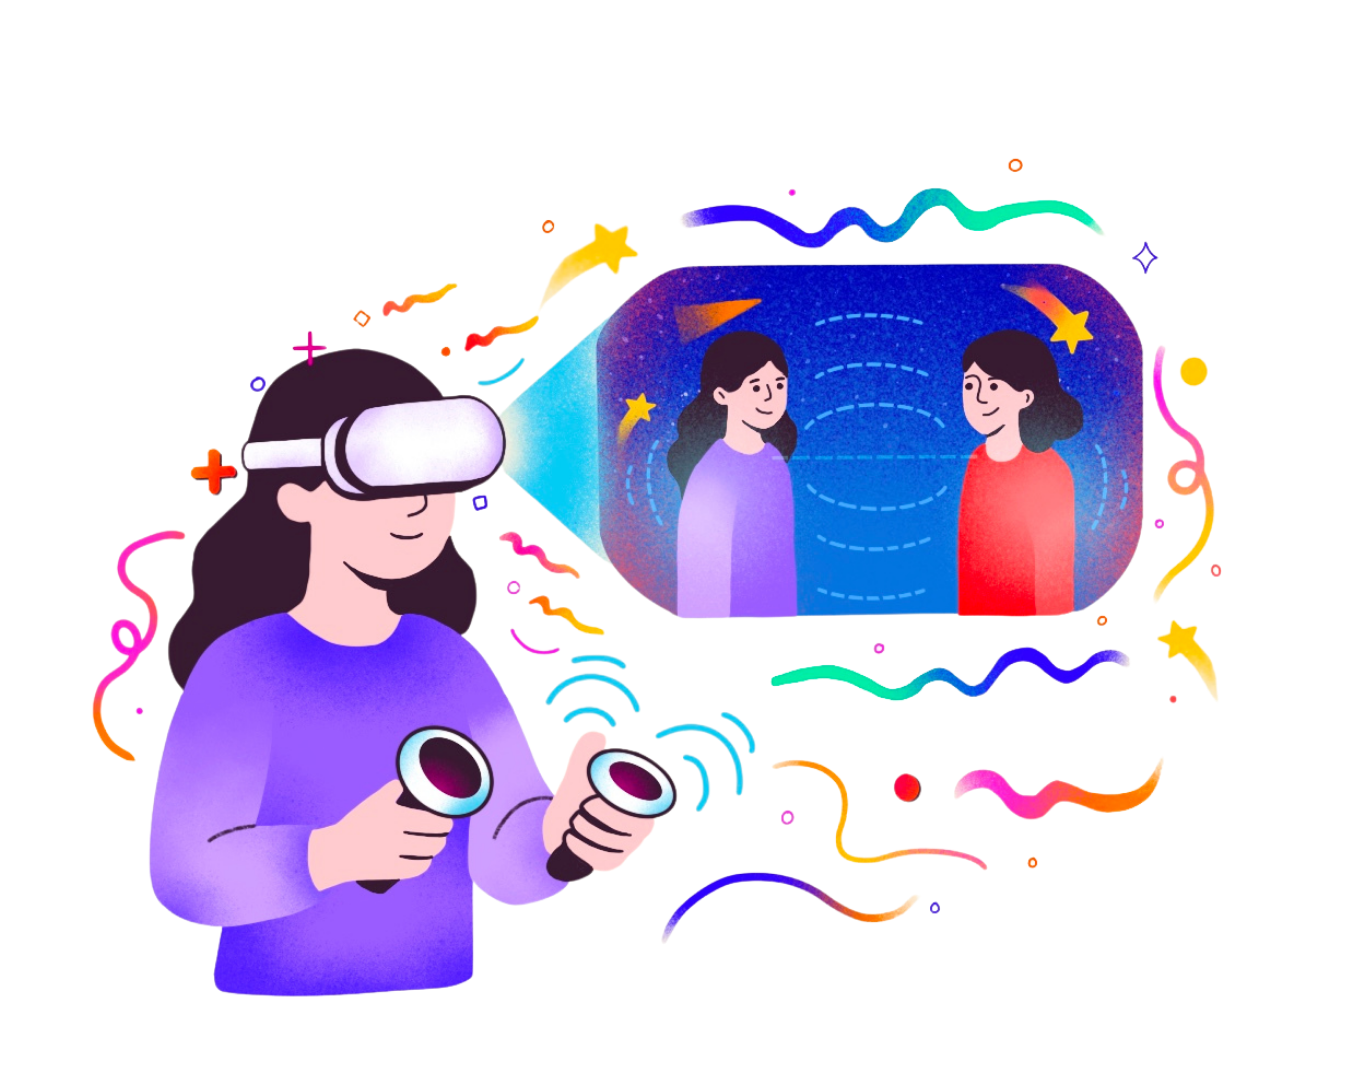
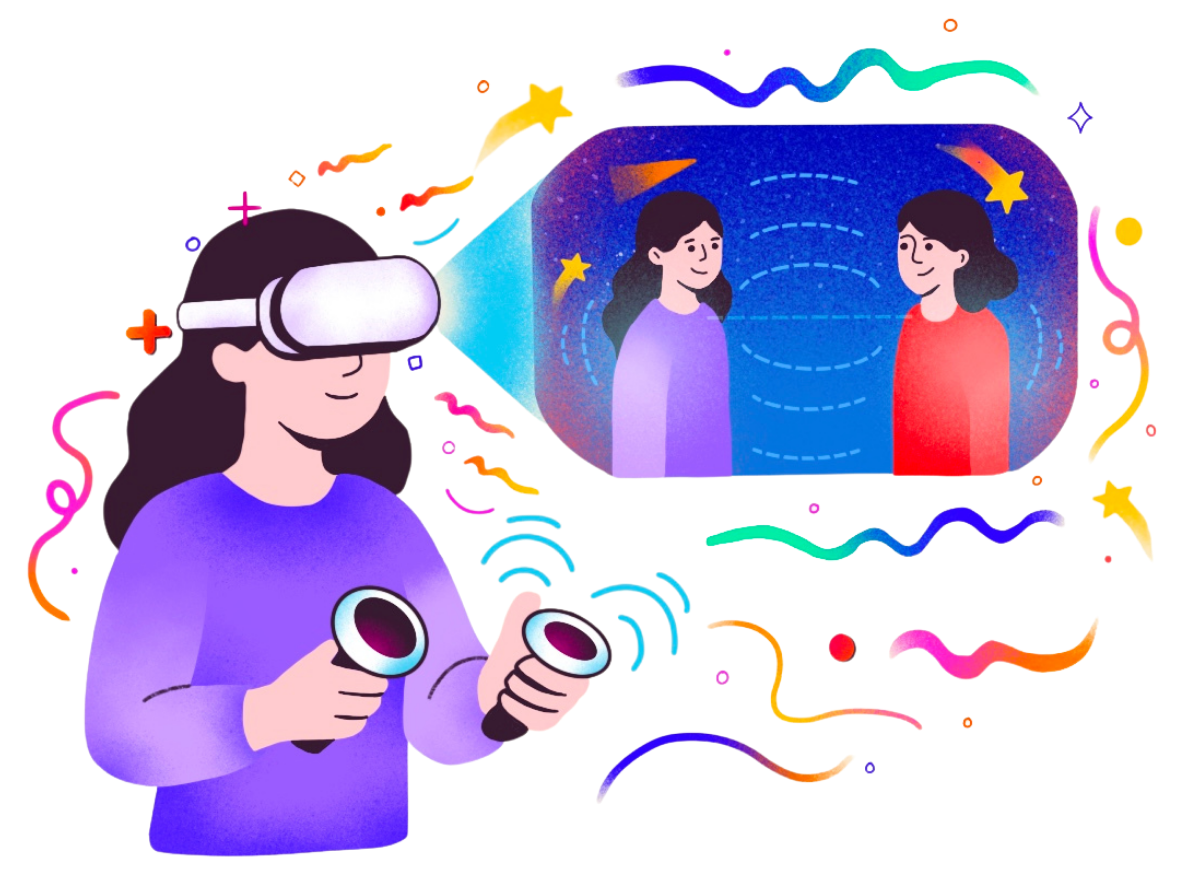
replaced index with alt index

diff --git a/index.html b/index.html
@@ -34,7 +34,7 @@
   <script src="https://code.jquery.com/jquery-3.6.0.min.js"></script>
   <script src="js/gsap-scroll.js"></script>
   <script src="js/mobile-nav.js"></script>
-        <script src="js/videoplayback2.js"></script>
+        <script src="js/videoplayback.js"></script>
   <script src="https://cdnjs.cloudflare.com/ajax/libs/gsap/3.3.3/ScrollTrigger.min.js"></script>
 </head>
 
@@ -129,24 +129,24 @@
 
 
 
- <div class="coverimage covervideo">
-  <img src="img/cover image.png" id="coverimage" alt="" style="display:none;">
- </div>
+ 
     <div class="introdiv section">
+   
       <div class="picture">
-        <img src="img/IMG_5422 copy.JPG" alt="profile photo of Rosie." class="coverimage breathe ">
-
-
-      </div>
+  <img src="img/grace dunne .png">
+ </div>
 
       <div class="text">
         <h1>Rosie Connolly</h1>
+       
         <p>I'm a VR researcher interested in all forms of creative technology!</p>
         <p>
           My current research areas include virtual navigation, social proxemics and perception of AI-driven agents.
         </p>
 
+  <p class="minitext italic">My PhD topic is illustrated by Grace Dunne</p>
 
+ 
         <p class="intro-line"> <i class='bx  bx-home'></i> Graphics &
           Vision, Trinity College Dublin</p>
 
@@ -374,9 +374,7 @@
       </div>
 
 <div class="section prefooter">
-        <img src="img/grace dunne .png">
-  <p>My PhD topic, as illustrated by Grace Dunne</p>
-
+     
 </div>
     </div>
 
@@ -386,11 +384,25 @@
 
   <footer class="section footer">
     <div class="footerinfo">
-  
+    
     </div>
+    <div class="footeritem">
+  <img class="coverimagealt" src="img/IMG_5422 copy.JPG">
+    </div>
+      <div class="footeritem">
       <h2 class="email">connolr3@tcd.ie</h2>
+    </div>
+      <div class="footeritem">
+
       <div class="underline"></div>
+    </div>
+
+     <div class="footeritem">
       <p>Developed with JQuery & GSAP libraries, hosted on Github.io.</p>
+    </div>
+   
+
+     
       
 
 

diff --git a/css/no-spine-css.css b/css/no-spine-css.css
@@ -14,6 +14,16 @@
 body{
   width: 100%;
 }
+
+
+.section{
+  margin-top: 1em;
+    min-height: 80vh;
+    min-width: 50vw;
+}
+
+
+
 .dates{
   font-style: italic;
   color:#05cfb8 ;
@@ -87,7 +97,7 @@ html, body {
 }
 
 .prefooter img{
-  max-width: 50vw;
+  max-width: 20vw;
 }
 .prefooter{
   display: flex;
@@ -99,6 +109,7 @@ html, body {
   font-size: 0.8em;
   font-style: italic;
 }
+
 .corner {
     z-index: 100000000000000000000000;
     width: 10.5%;
@@ -279,6 +290,21 @@ table:hover{
     border-radius: 100%;
 }
 
+.coverimagealt {
+    object-fit: contain;
+    max-height: 20%;
+    max-width: 20%;
+    z-index: 105;
+    border-radius: 100%;
+}
+
+.italic{
+font-style: italic;
+}
+.minitext{
+  font-size: 0.8rem;
+  color: rgb(207, 207, 207);
+}
 img {
     max-width: 90%;
     max-height: 80%;
@@ -848,6 +874,17 @@ color: #1d1717;
   color: #999;
 }
 
+.publication-item .type {
+  color: #999;
+font-style: italic;
+}
+
+.meta {
+  display: flex;
+  gap: 8px;          /* space between year and type */
+  align-items: center;
+}
+
  .pub-tag {
   color: var(--feature-color);
   border: var(--feature-color3)2px solid;
@@ -1039,6 +1076,10 @@ color: #1d1717;
   .offsetflex{
     flex-direction: column;
   }
+
+  .section{
+    min-height: none !important;
+  }
   .education{
     max-width: none;
   }
@@ -1056,6 +1097,11 @@ color: #1d1717;
     width: 0 !important;
     height: 0 !important;
   }
+
+.introdiv{
+  height: fit-content !important;
+}
+
   .footer{
   padding: 10vw;
   text-align: center;
@@ -1446,12 +1492,6 @@ ul{
 .text{
   background-color: inherit;
  
-}
-
-.section{
-  margin-top: 1em;
-    min-height: 80vh;
-    min-width: 50vw;
 }
 
 

diff --git a/indexalternative.html b/indexalternative.html
@@ -34,7 +34,7 @@
   <script src="https://code.jquery.com/jquery-3.6.0.min.js"></script>
   <script src="js/gsap-scroll.js"></script>
   <script src="js/mobile-nav.js"></script>
-        <script src="js/videoplayback.js"></script>
+        <script src="js/videoplayback2.js"></script>
   <script src="https://cdnjs.cloudflare.com/ajax/libs/gsap/3.3.3/ScrollTrigger.min.js"></script>
 </head>
 
@@ -129,12 +129,15 @@
 
 
 
- 
-    <div class="introdiv section">
-   
-      <div class="picture">
-  <img src="img/grace dunne .png">
+ <div class="coverimage covervideo">
+  <img src="img/cover image.png" id="coverimage" alt="" style="display:none;">
  </div>
+    <div class="introdiv section">
+      <div class="picture">
+        <img src="img/IMG_5422 copy.JPG" alt="profile photo of Rosie." class="coverimage breathe ">
+
+
+      </div>
 
       <div class="text">
         <h1>Rosie Connolly</h1>
@@ -143,7 +146,7 @@
           My current research areas include virtual navigation, social proxemics and perception of AI-driven agents.
         </p>
 
- 
+
         <p class="intro-line"> <i class='bx  bx-home'></i> Graphics &
           Vision, Trinity College Dublin</p>
 

diff --git a/js/publications.js b/js/publications.js
@@ -21,7 +21,8 @@ $(document).ready(function() {
 
                         
                                   ${pub.tags ? `<div class="pub-tag">${pub.tags}</div>` : ''}
-                        <div class="authors">${pub.authors.join(', ')}</div>
+
+                     
 
                         ${pub.abstract ? `
                             <button class="toggle-abstract" data-index="${index}">Show Abstract</button>
@@ -33,8 +34,10 @@ $(document).ready(function() {
                         ${pub.journal ? `<div class="journal"><em>${pub.journal}</em></div>` : ''}
                         ${pub.conference ? `<div class="conference"><em>${pub.conference}</em></div>` : ''}
                           ${pub.workshop ? `<div class="conference"><em>${pub.workshop}</em></div>` : ''}
-                        ${pub.year ? `<div class="year">${pub.year}</div>` : ''}
-                    
+                      <div class="meta">
+  ${pub.year ? `<div class="year">${pub.year}</div>` : ''}
+  ${pub.type ? `<div class="type">${pub.type}</div>` : ''}
+</div>
                     </div>
                 `;
 
